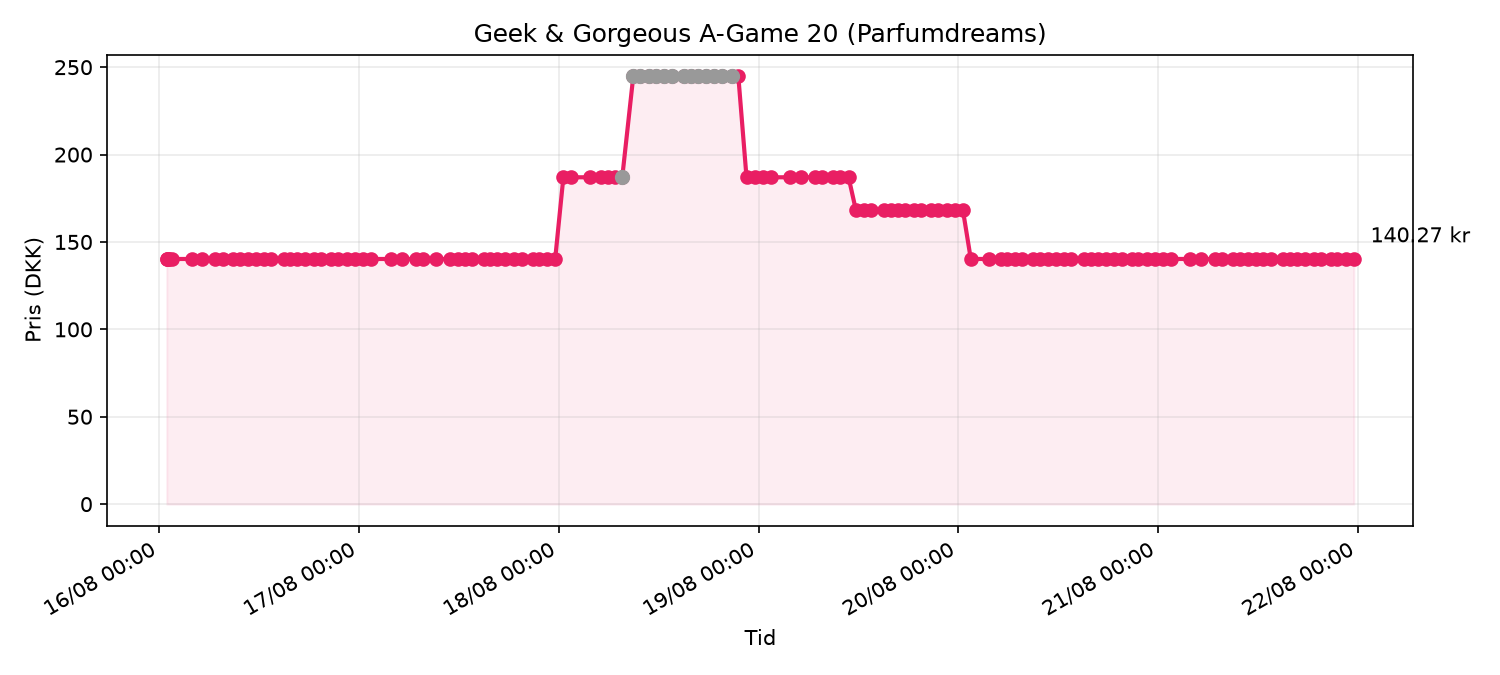
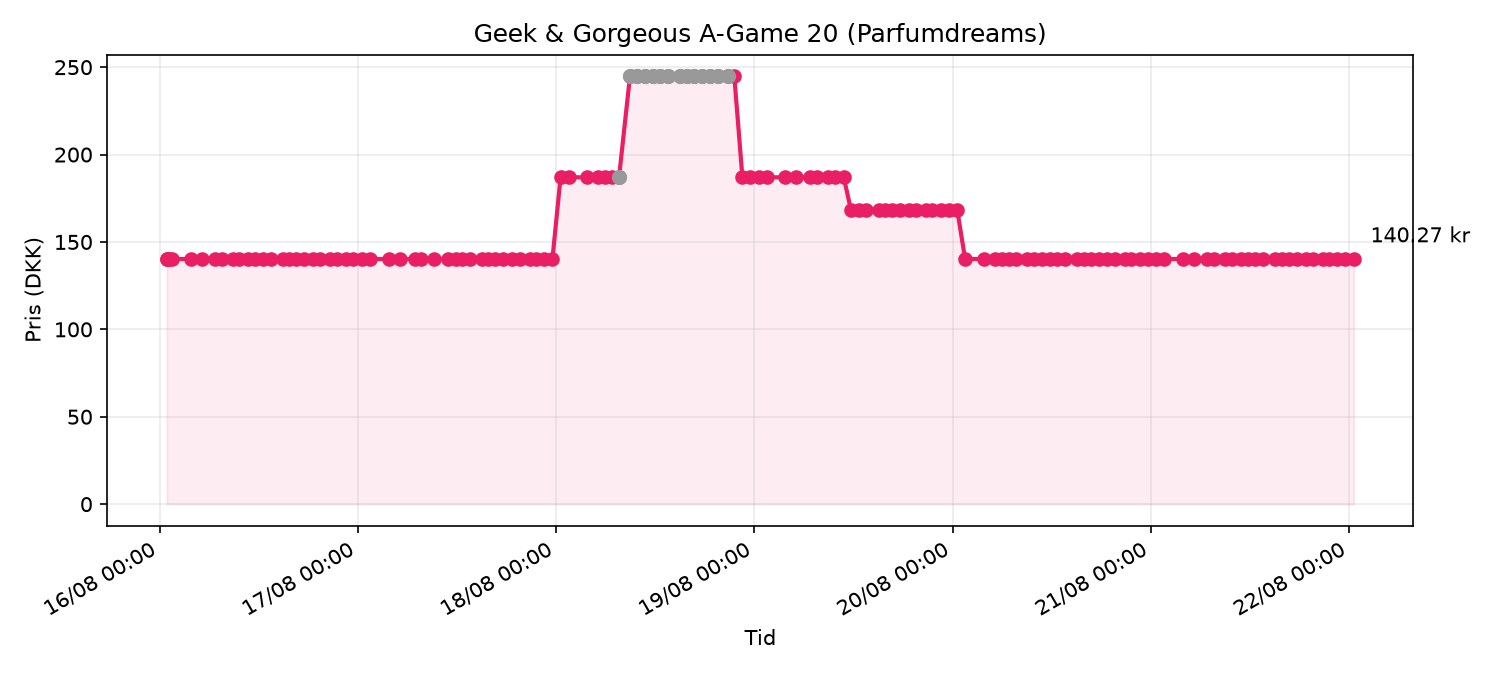
price check 2026-08-21T22:33Z

diff --git a/data/price_chart.html b/data/price_chart.html
@@ -13,7 +13,7 @@
 </head>
 <body>
   <h1>Geek & Gorgeous A-Game 20 (Parfumdreams)</h1>
-  <p class="meta">Senest tjekket: 21/08/2026 23:32 · Pris: <strong>140.27 kr</strong> · på lager</p>
+  <p class="meta">Senest tjekket: 22/08/2026 00:33 · Pris: <strong>140.27 kr</strong> · på lager</p>
   
   <p><a href="https://www.parfumdreams.dk/Geek-Gorgeous/Samlinger/101-aktive-stoffer/A-Game-20-Serum/index_137083.aspx?variation=221879">Åbn produkt på Parfumdreams</a></p>
   <img src="price_chart.png" alt="Prisgraf">
